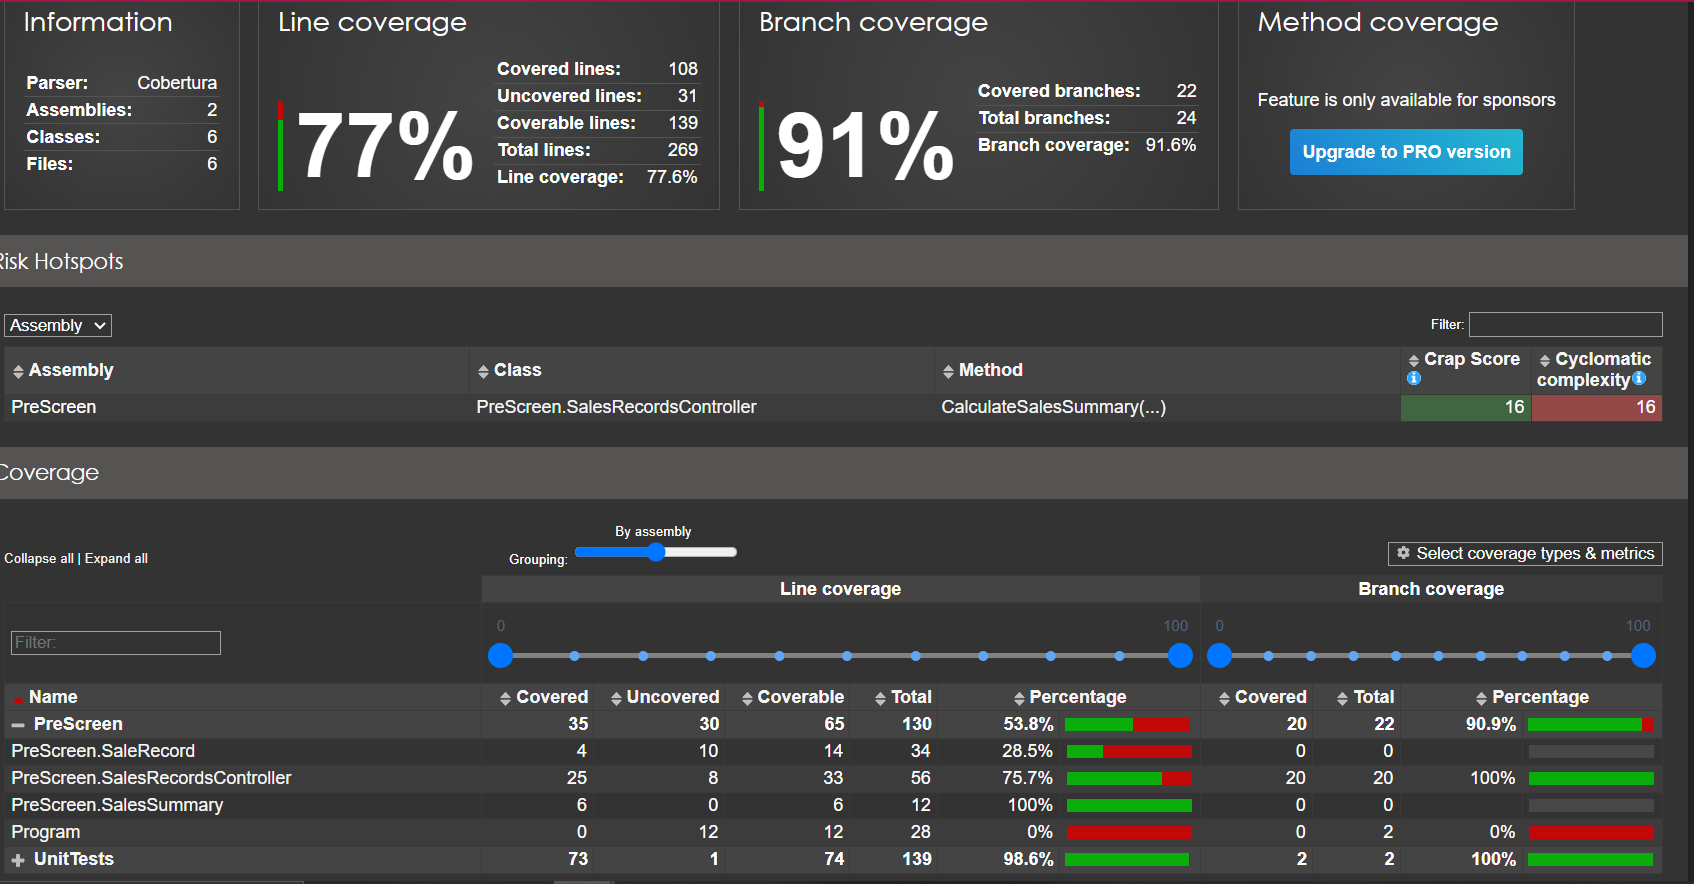
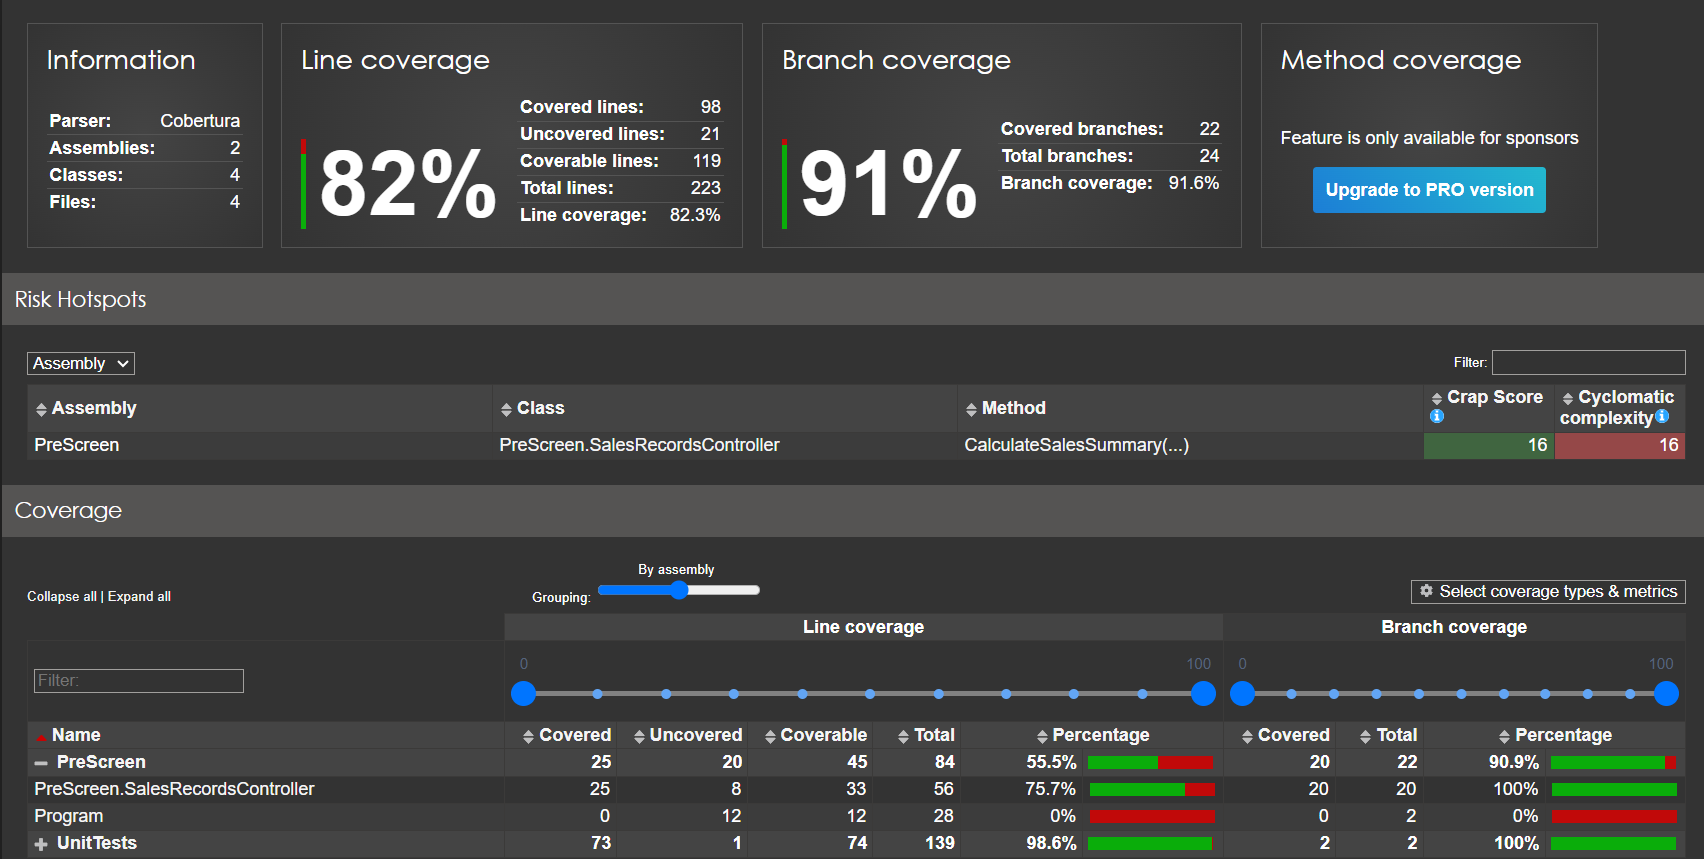
excluding classes from code coverage and updating results

diff --git a/SaleRecord.cs b/SaleRecord.cs
@@ -1,7 +1,9 @@
 using CsvHelper.Configuration.Attributes;
+using System.Diagnostics.CodeAnalysis;
 
 namespace PreScreen
 {
+    [ExcludeFromCodeCoverage]
     public class SaleRecord
     {
         public string Region { get; set; }

diff --git a/SalesSummary.cs b/SalesSummary.cs
@@ -1,5 +1,8 @@
-namespace PreScreen
+using System.Diagnostics.CodeAnalysis;
+
+namespace PreScreen
 {
+    [ExcludeFromCodeCoverage]
     public class SalesSummary
     {
         public decimal MedianUnitCost { get; set; }
